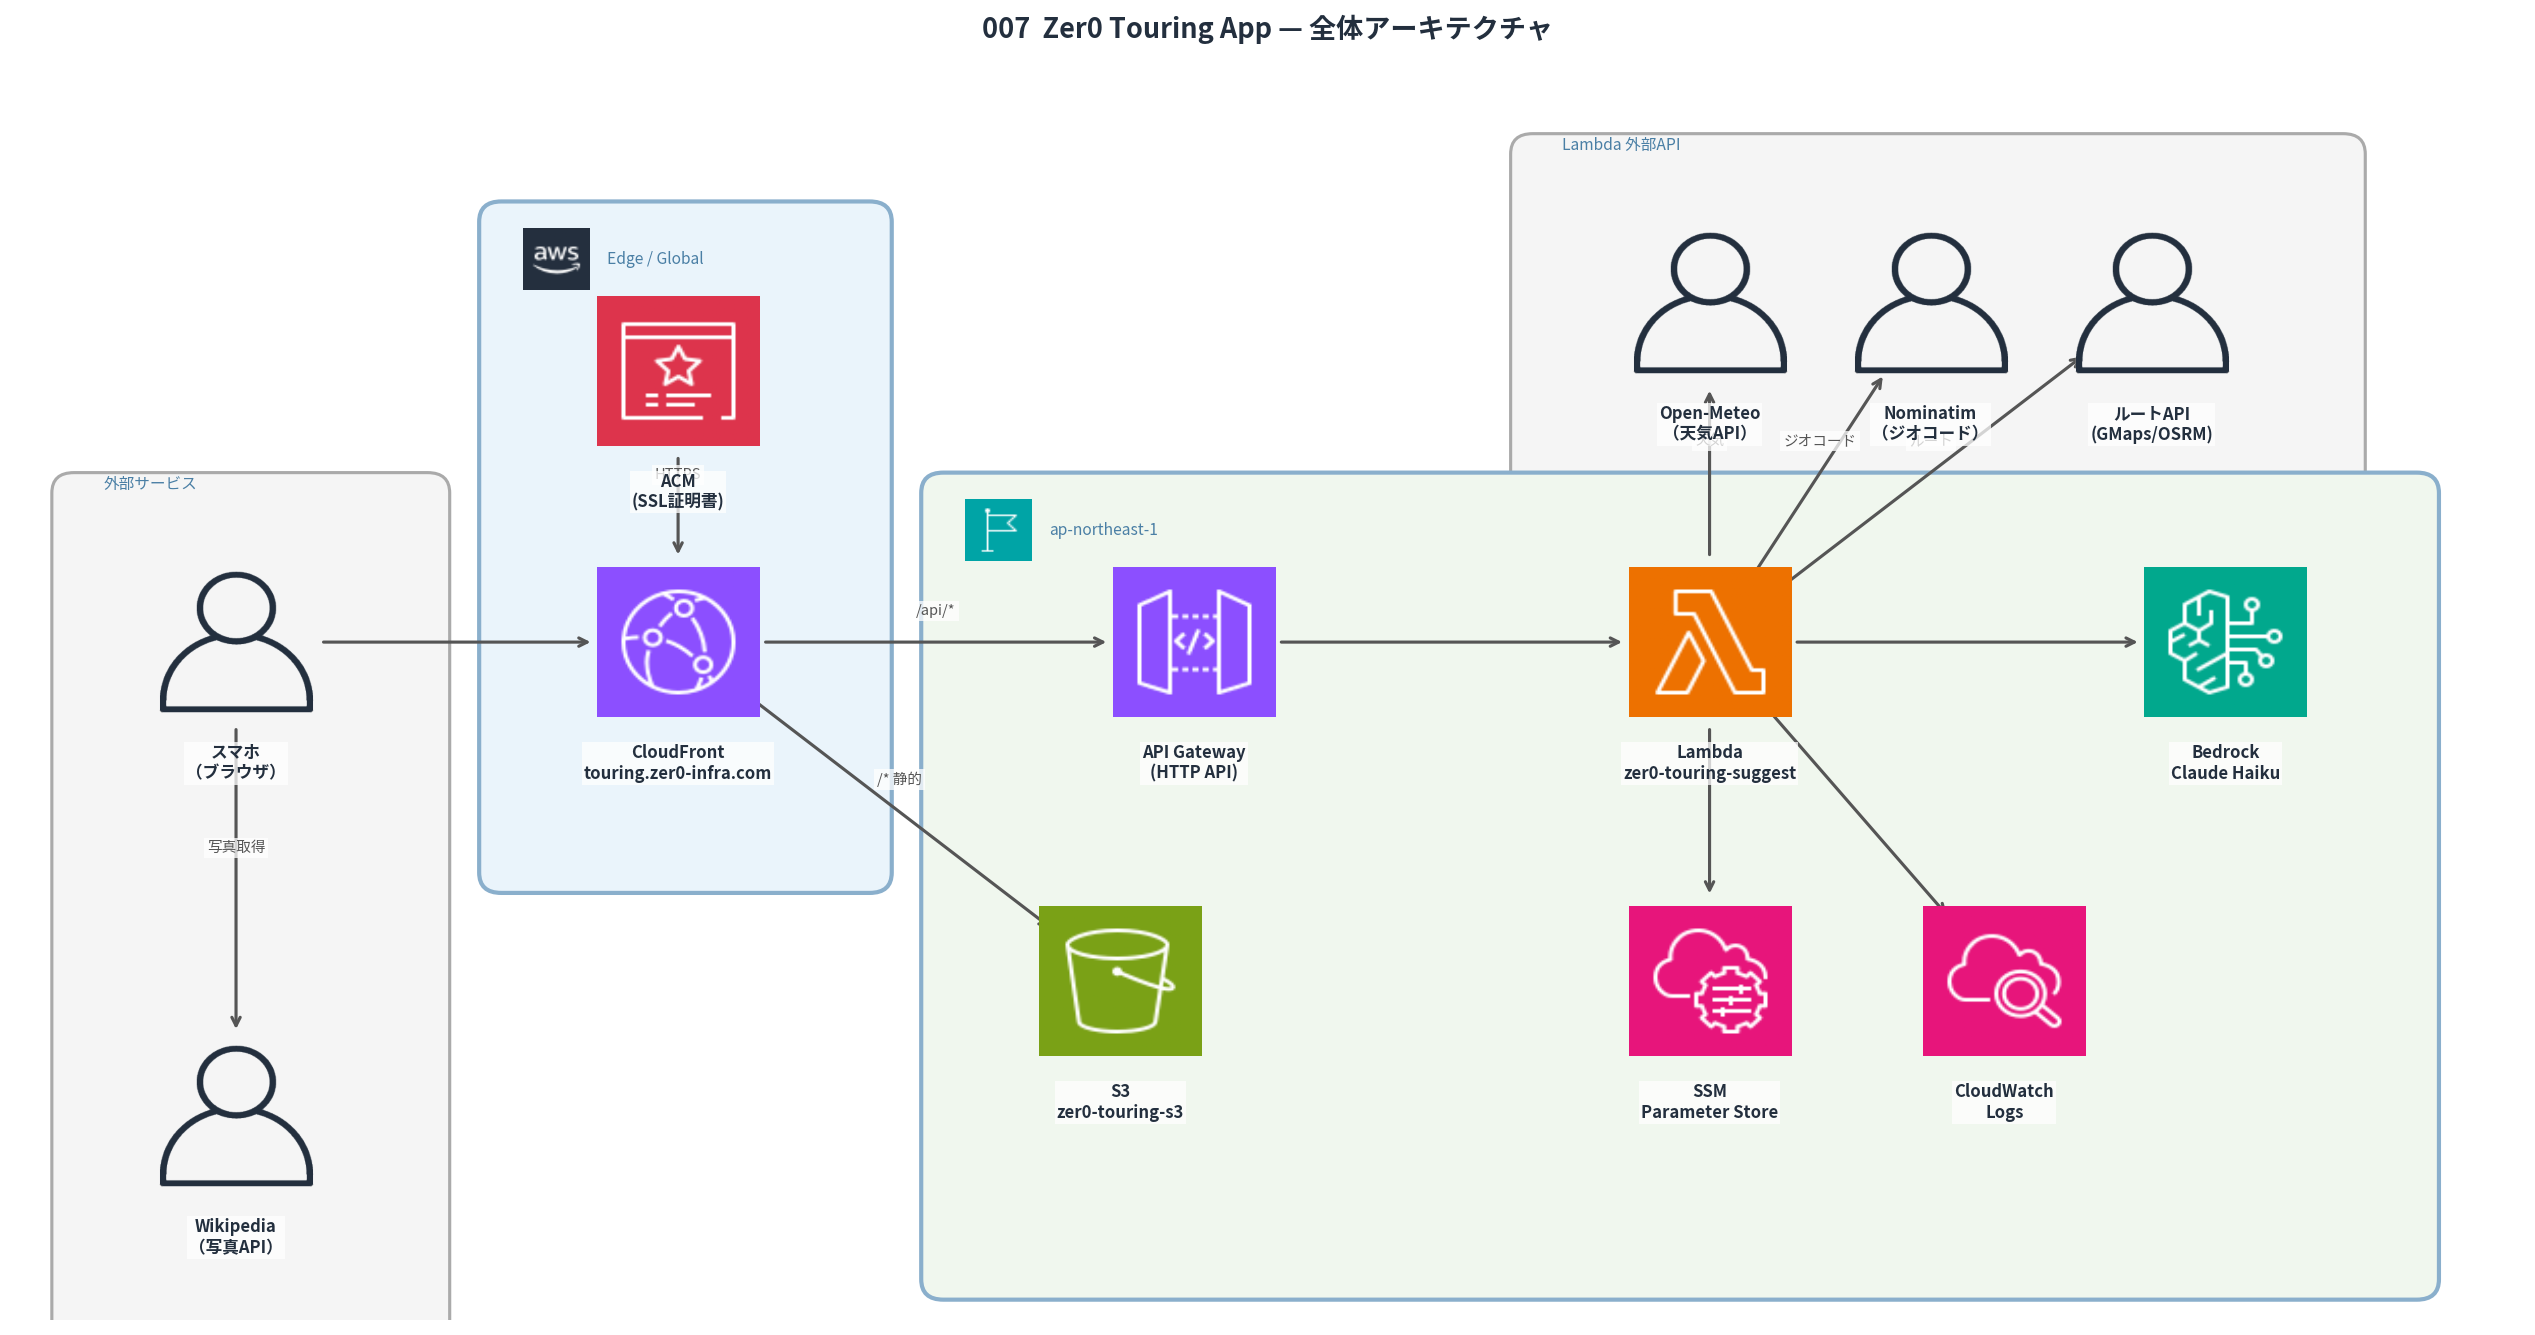
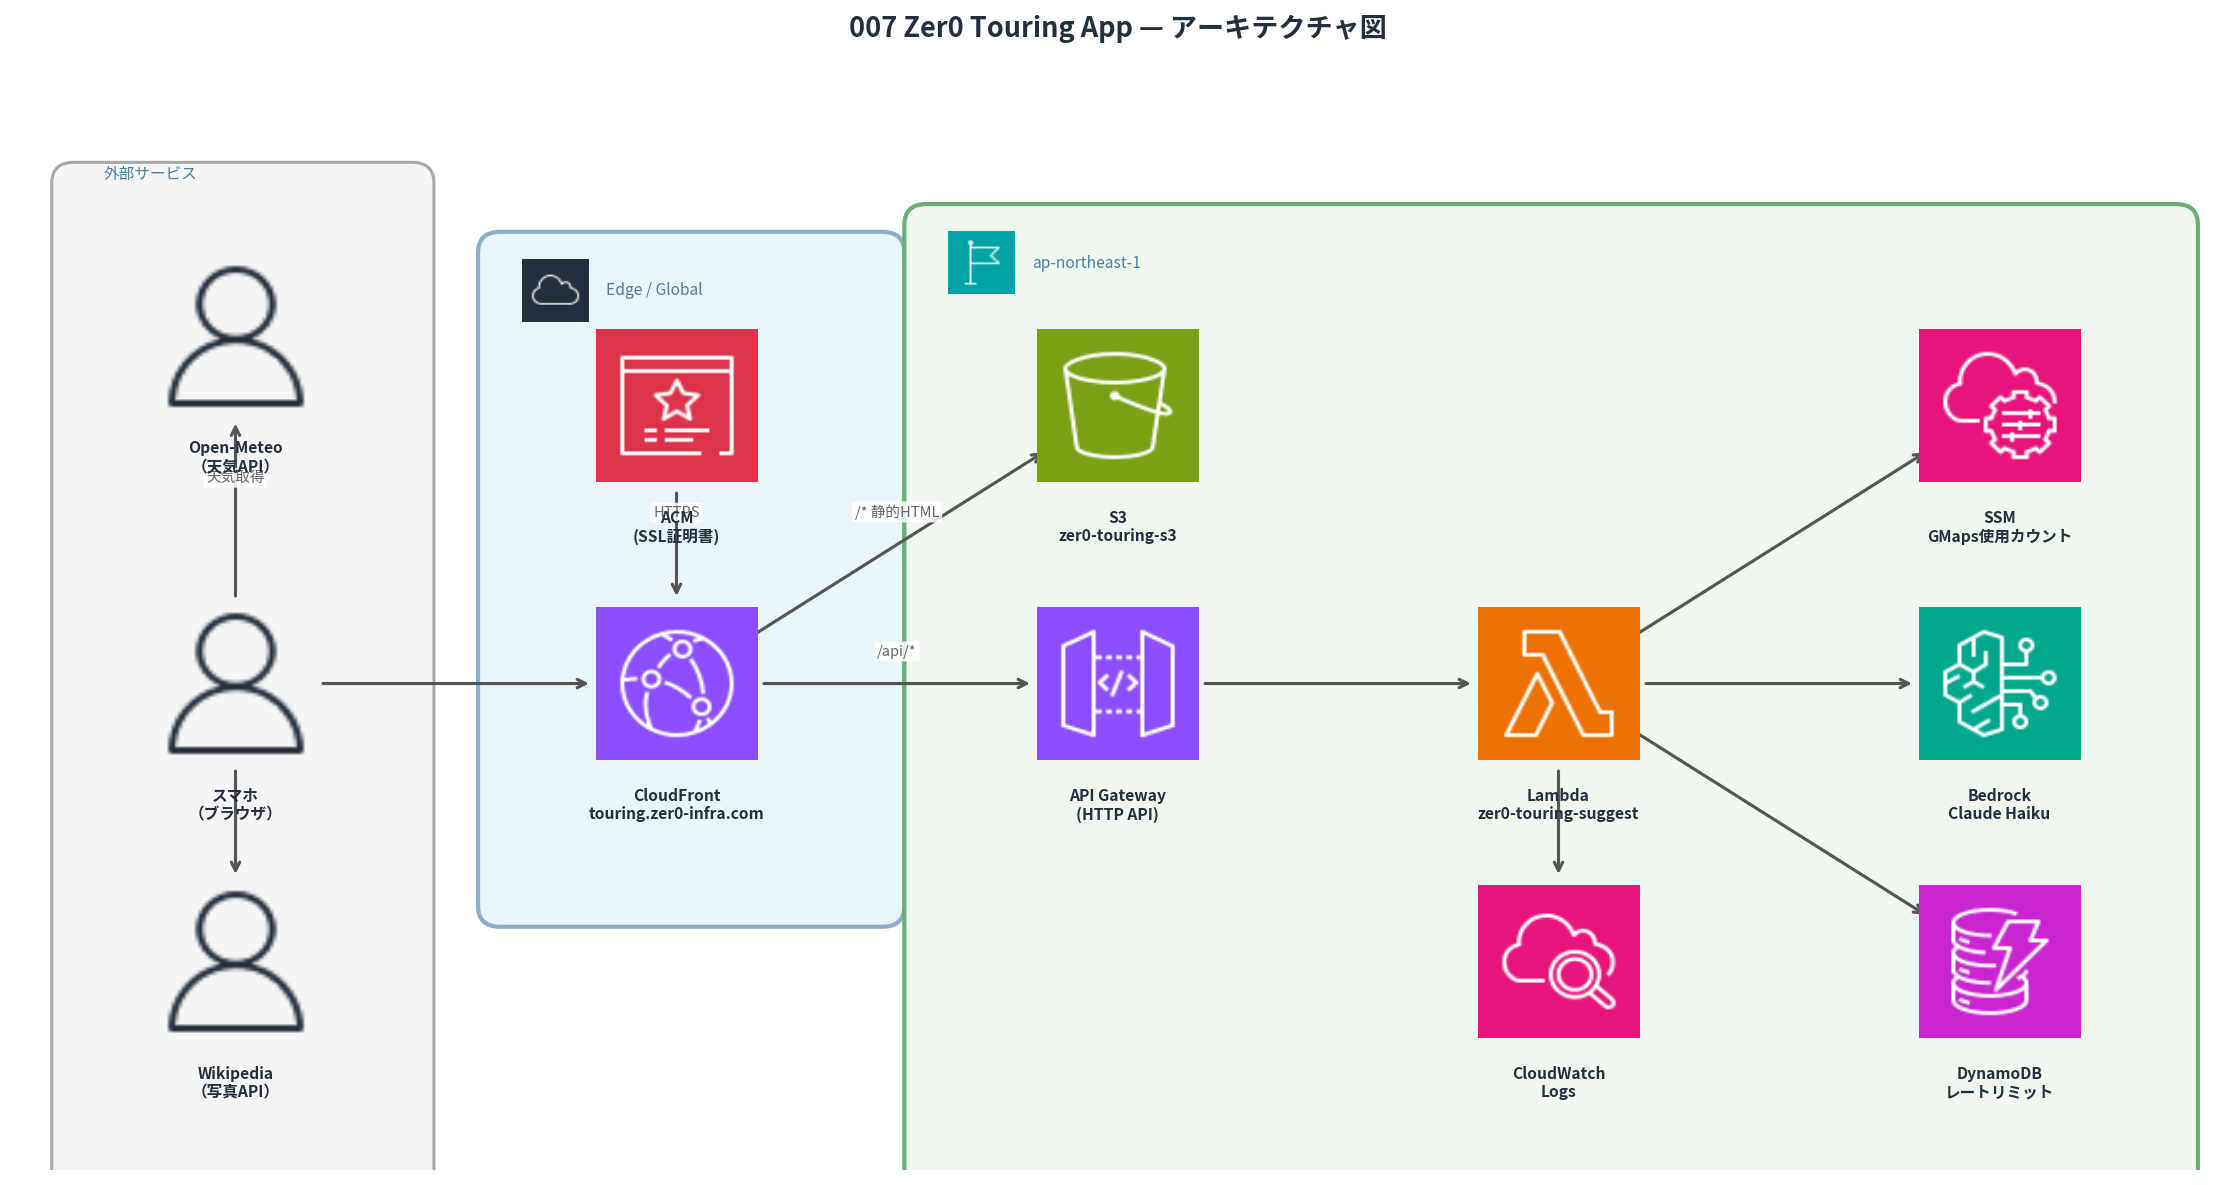
auto-sync: 2026-05-25 09:14

diff --git a/004_portfolio/src/src/data/projects.ts b/004_portfolio/src/src/data/projects.ts
@@ -201,25 +201,25 @@ export const projects: Project[] = [
     nameEn: 'Bike Touring PWA',
     descJa: '現在地と天気からAIが日帰りツーリングコース3ルートを提案するPWA。片道・往復時間・帰路提案・特徴タグ・Googleマップナビ・XシェアまでをBedrock一括生成。',
     descEn: 'PWA suggesting 3 day-trip motorcycle routes from current location and weather. Bedrock generates one-way/round-trip times, return routes, feature tags, and Google Maps navigation in one shot.',
-    longDescJa: 'GPS取得→Open-Meteo天気API→Bedrock Claude Haikuの3ステップでコースを自動生成。近距離（緑丘）・中距離（青海）・長距離（紫山脈）の3コースをコース別景観シルエット付きカードでスワイプ表示。詳細画面ではWikipedia写真・現在地↔目的地天気比較・週間予報（最高/最低気温）・帰路提案・Googleマップナビ（Android/iOS/Web別URL）・Xシェア・?course=Base64によるURLコピー＆復元が使える。Astro static + CloudFront + S3 + Lambda のサーバーレス構成で月額$0.40の低コスト運用を実現。',
-    longDescEn: 'Three-step pipeline: GPS → Open-Meteo → Bedrock Claude Haiku. Three routes (short/mid/long) displayed as swipeable cards with per-course landscape silhouettes (green hills / blue sea / purple mountains), route summary line, and destination weather badge. Detail view: Wikipedia photos, current↔destination weather comparison, 7-day forecast with high/low temps, return-route suggestions, platform-adaptive Google Maps navigation, X share, and URL copy/restore via ?course=Base64. Serverless Astro static + CloudFront + S3 + Lambda at just $0.40/month.',
+    longDescJa: 'GPS取得→Open-Meteo天気API→Bedrock Claude Haikuの3ステップでコースを自動生成。近距離（緑丘）・中距離（青海）・長距離（紫山脈）の3コースをコース別景観シルエット付きカードでスワイプ表示。詳細画面ではWikipedia写真・現在地↔目的地天気比較・週間予報（最高/最低気温）・行き/帰り立ち寄りスポット分離・帰路提案・Googleマップナビ（全デバイス統一URL/waypointをジオコード座標で指定）・Xシェア・?course=Base64によるURLコピー＆復元が使える。DynamoDBによるIP別・日別レートリミット（1日3回）を実装。Astro static + CloudFront + S3 + Lambda + DynamoDB のサーバーレス構成で月額$0.40の低コスト運用を実現。',
+    longDescEn: 'Three-step pipeline: GPS → Open-Meteo → Bedrock Claude Haiku. Three routes (short/mid/long) displayed as swipeable cards with per-course landscape silhouettes (green hills / blue sea / purple mountains), route summary line, and destination weather badge. Detail view: Wikipedia photos, current↔destination weather comparison, 7-day forecast with high/low temps, outbound/return stop separation, return-route suggestions, Google Maps navigation (unified https:// URL across all devices, waypoints as geocoded coordinates), X share, and URL copy/restore via ?course=Base64. IP-based daily rate limiting via DynamoDB (3 requests/day). Serverless Astro static + CloudFront + S3 + Lambda + DynamoDB at just $0.40/month.',
     pointsJa: [
       'GPS・天気・AI生成の3ステップをリアルタイムのローディング画面で可視化し、待ち時間のストレスを軽減',
-      'Bedrock Claude Haikuが特徴タグ・ルートサマリー・片道/往復時間・帰路提案を含む詳細コースを一括生成',
+      'Bedrock Claude Haikuが特徴タグ・ルートサマリー・片道/往復時間・行き/帰り立ち寄りスポット・帰路提案を一括生成',
       'Astro static PWA + CloudFront + S3 + Lambda の構成で月額 ~$0.40、1リクエスト ~$0.005 の超低コスト運用',
-      'OS別Googleマップ起動・XシェアURL・?course=Base64によるURL復元など、スマホ向けUXを徹底実装',
+      'DynamoDB IP別レートリミット・Nominatim waypointジオコード・?course=Base64 URLシェアなどスマホ向けUXを徹底実装',
     ],
     pointsEn: [
       'Real-time 3-step loading indicator (GPS → weather → AI) reduces perceived wait time',
-      'Claude Haiku generates feature tags, route summary, one-way/round-trip times, and return-route suggestions in one call',
+      'Claude Haiku generates feature tags, route summary, one-way/round-trip times, outbound/return stops, and return-route suggestions in one call',
       'Astro static PWA + CloudFront + S3 + Lambda: ~$0.40/month, ~$0.005 per request',
-      'OS-adaptive Google Maps launch (Android/iOS/Web), X share, and ?course=Base64 URL restore for mobile-first UX',
+      'DynamoDB IP-based rate limiting, Nominatim waypoint geocoding with direction filter, and ?course=Base64 URL share for mobile-first UX',
     ],
     architecture: '/images/007_architecture.png',
     githubUrl: 'https://github.com/Zer0-1179/Zer0-public',
     siteUrl: 'https://touring.zer0-infra.com',
     tags: ['PWA', 'Bedrock', 'Astro', 'GPS'],
-    services: ['Lambda', 'API Gateway', 'Amazon Bedrock', 'CloudFront', 'S3', 'CloudFormation'],
+    services: ['Lambda', 'API Gateway', 'Amazon Bedrock', 'CloudFront', 'S3', 'DynamoDB', 'CloudFormation'],
     emoji: '🏍',
     featured: true,
     monthlyCost: '~$0.40',

diff --git a/007_zer0-touring-app/generate_diagram.py b/007_zer0-touring-app/generate_diagram.py
@@ -31,6 +31,8 @@ ICONS = {
     'bedrock':     f'{_SVC}/Arch_Artificial-Intelligence/64/Arch_Amazon-Bedrock_64.png',
     'acm':         f'{_SVC}/Arch_Security-Identity-Compliance/64/Arch_AWS-Certificate-Manager_64.png',
     'cloudwatch':  f'{_SVC}/Arch_Management-Governance/64/Arch_Amazon-CloudWatch_64.png',
+    'ssm':         f'{_SVC}/Arch_Management-Governance/64/Arch_AWS-Systems-Manager_64.png',
+    'dynamodb':    f'{_SVC}/Arch_Database/64/Arch_Amazon-DynamoDB_64.png',
     'region':      f'{_GRP}/Region_32.png',
     'aws_cloud':   f'{_GRP}/AWS-Cloud_32.png',
     'user':        None,  # ローカル aws_icons/user.png
@@ -53,11 +55,12 @@ def _cluster_icon(key):
 
 def draw():
     # ── レイアウト ──
-    # xlim=14, ylim=8  figsize=(14,8)
+    # xlim=15, ylim=8  figsize=(15,8)
     # 外部サービス: OpenMeteo(1.5,6.0)  Browser(1.5,3.5)  Wikipedia(1.5,1.5)
     # Edge/Global:  ACM(4.5,5.5)  CF(4.5,3.5)
-    # ap-northeast-1: S3(7.5,5.5)  APIGW(7.5,3.5)  Lambda(10.5,3.5)
-    #                 Bedrock(13.5,3.5)  CW(10.5,1.5)
+    # ap-northeast-1: S3(7.5,5.5)  SSM(13.5,5.5)
+    #                 APIGW(7.5,3.5)  Lambda(10.5,3.5)  Bedrock(13.5,3.5)
+    #                 CW(10.5,1.5)    DynamoDB(13.5,1.5)
     HALF = 0.55
 
     nodes = [
@@ -67,10 +70,12 @@ def draw():
         {'id': 'acm',       'icon': 'acm',        'label': 'ACM\n(SSL証明書)',                     'x': 4.5,  'y': 5.5},
         {'id': 'cf',        'icon': 'cloudfront', 'label': 'CloudFront\ntouring.zer0-infra.com',   'x': 4.5,  'y': 3.5},
         {'id': 's3',        'icon': 's3',         'label': 'S3\nzer0-touring-s3',                 'x': 7.5,  'y': 5.5},
+        {'id': 'ssm',       'icon': 'ssm',        'label': 'SSM\nGMaps使用カウント',               'x': 13.5, 'y': 5.5},
         {'id': 'apigw',     'icon': 'api_gw',     'label': 'API Gateway\n(HTTP API)',              'x': 7.5,  'y': 3.5},
         {'id': 'lambda',    'icon': 'lambda',     'label': 'Lambda\nzer0-touring-suggest',         'x': 10.5, 'y': 3.5},
         {'id': 'bedrock',   'icon': 'bedrock',    'label': 'Bedrock\nClaude Haiku',               'x': 13.5, 'y': 3.5},
         {'id': 'cw',        'icon': 'cloudwatch', 'label': 'CloudWatch\nLogs',                    'x': 10.5, 'y': 1.5},
+        {'id': 'dynamodb',  'icon': 'dynamodb',   'label': 'DynamoDB\nレートリミット',             'x': 13.5, 'y': 1.5},
     ]
 
     edges = [
@@ -82,7 +87,9 @@ def draw():
         ('cf',       'apigw',     '/api/*'),
         ('apigw',    'lambda',    ''),
         ('lambda',   'bedrock',   ''),
+        ('lambda',   'ssm',       ''),
         ('lambda',   'cw',        ''),
+        ('lambda',   'dynamodb',  ''),
     ]
 
     clusters = [
@@ -90,7 +97,7 @@ def draw():
             'label': '外部サービス', 'icon': None,
             'x': 0.4, 'y': 0.5, 'w': 2.3, 'h': 6.2,
             'color': '#F5F5F5', 'edgecolor': '#AAAAAA',
-            'linestyle': '--', 'linewidth': 1.5,
+            'linestyle': '-', 'linewidth': 1.5,
         },
         {
             'label': 'Edge / Global', 'icon': 'aws_cloud',
@@ -100,7 +107,7 @@ def draw():
         },
         {
             'label': 'ap-northeast-1', 'icon': 'region',
-            'x': 6.2, 'y': 0.3, 'w': 8.1, 'h': 6.5,
+            'x': 6.2, 'y': 0.3, 'w': 8.5, 'h': 6.5,
             'color': '#F0F7EE', 'edgecolor': '#6BAE75',
             'linestyle': '-', 'linewidth': 2.0,
         },
@@ -125,8 +132,8 @@ def draw():
             if ny - cl['y'] < _PAD_BOT:
                 d = _PAD_BOT - (ny - cl['y']); cl['y'] -= d; cl['h'] += d
 
-    fig, ax = plt.subplots(figsize=(14, 8), dpi=150)
-    ax.set_xlim(0, 14)
+    fig, ax = plt.subplots(figsize=(15, 8), dpi=150)
+    ax.set_xlim(0, 15)
     ax.set_ylim(0, 8)
     ax.set_aspect('equal')
     ax.axis('off')
